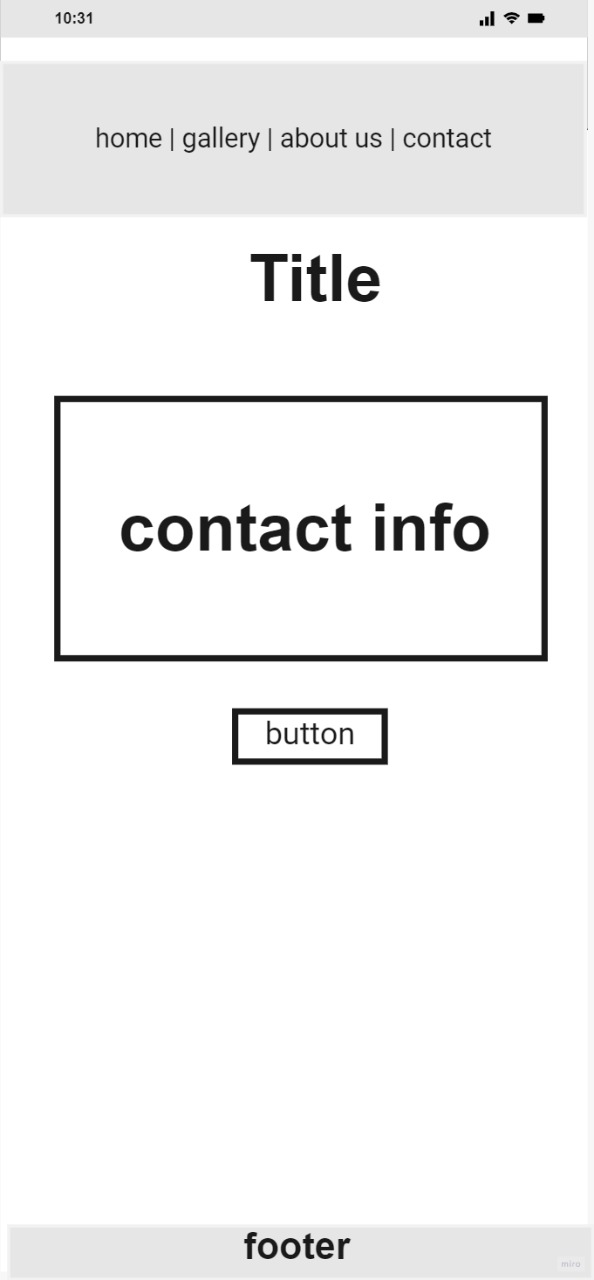
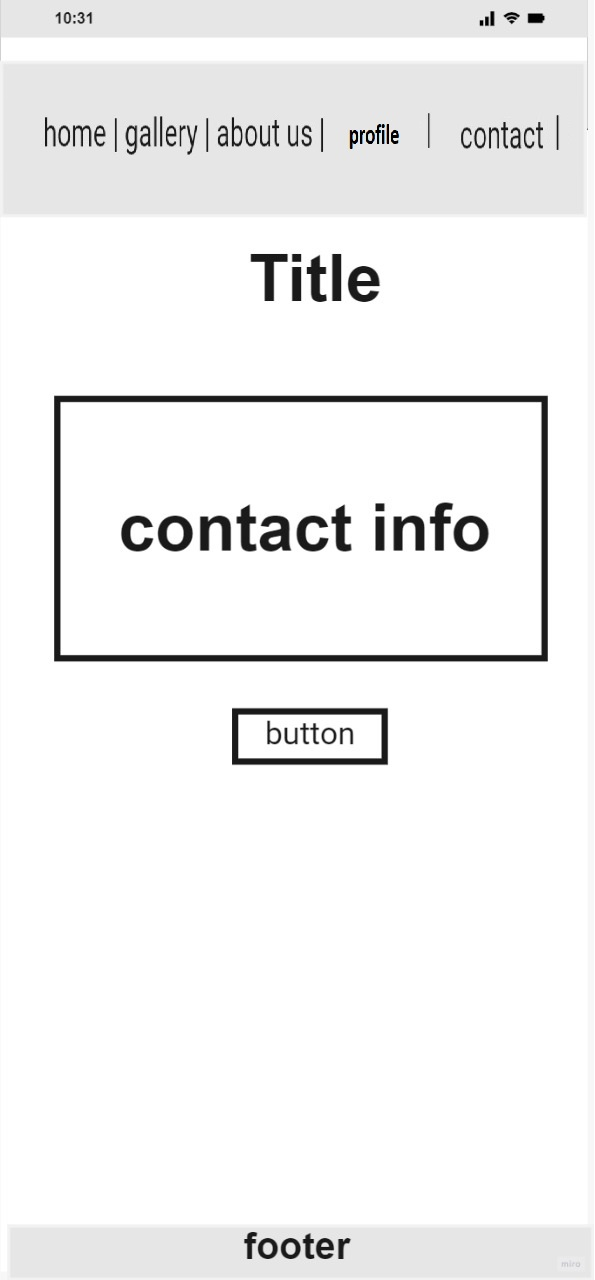
index redirect bugfix, new wireframe images, edited old wireframe because of more pages needed

diff --git a/index.html b/index.html
@@ -49,7 +49,7 @@
               <a
                 class="nav-link header__nav__ul__li__a--linkFormat active"
                 aria-current="page"
-                href="./index2.html"
+                href="./index.html"
                 >Home</a
               >
             </li>
